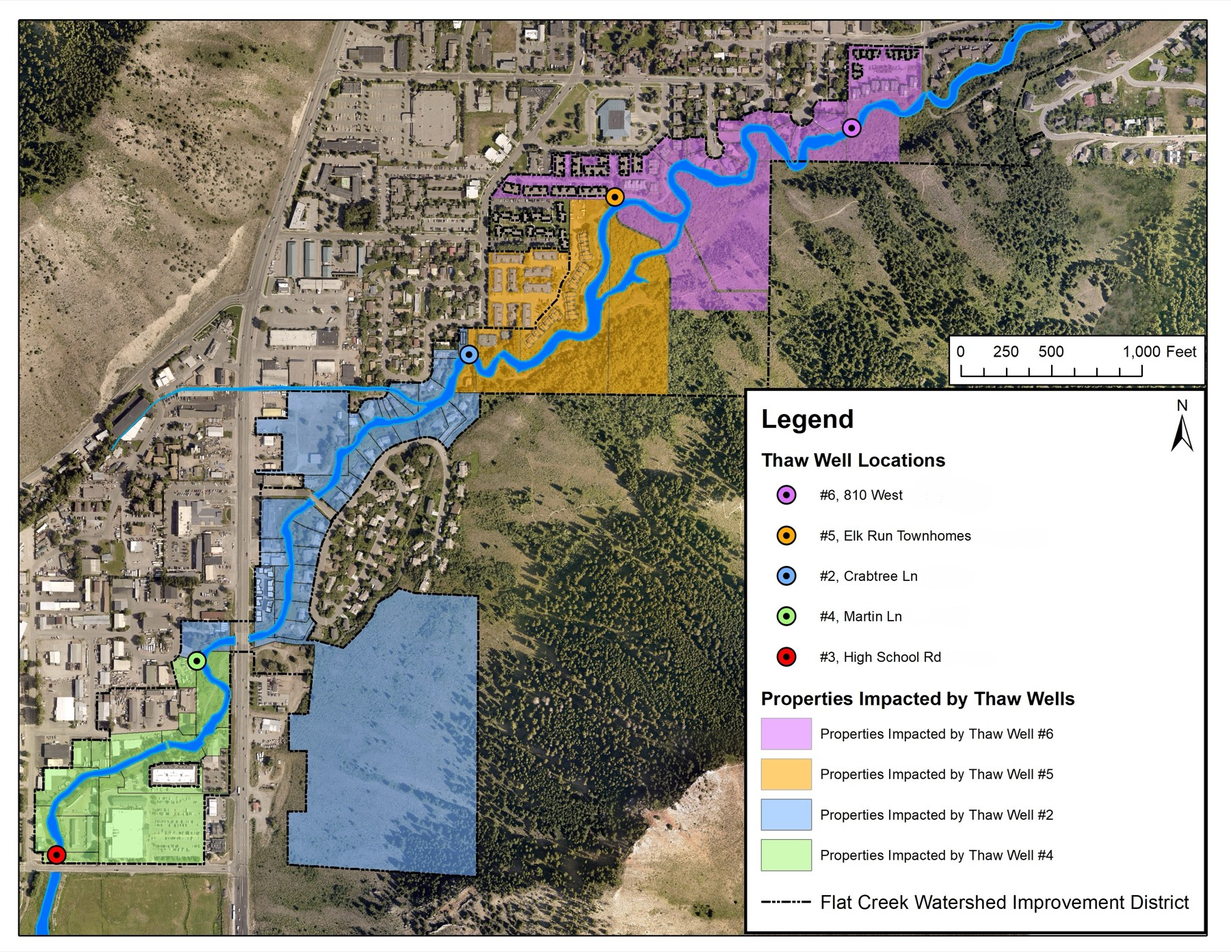
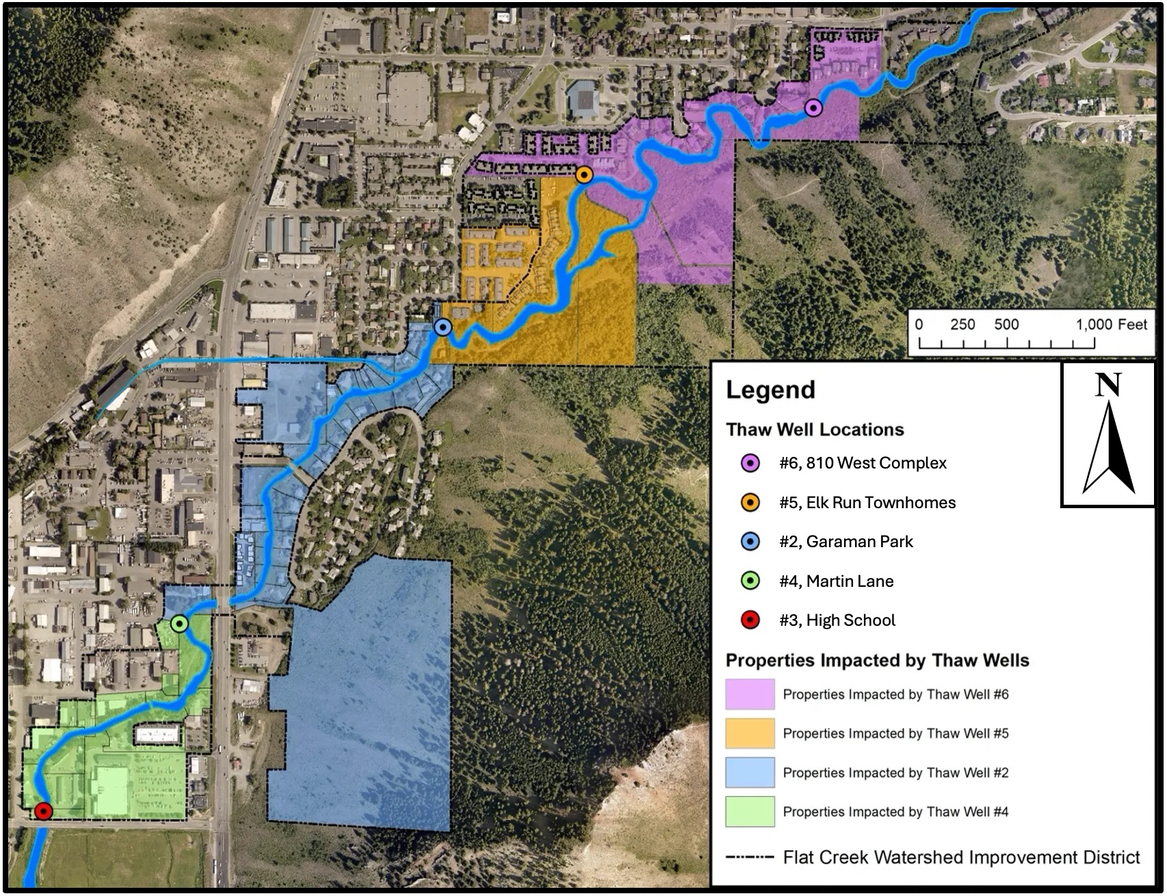
Update district map with thaw well locations and impacted properties

diff --git a/projects.html b/projects.html
@@ -15,7 +15,7 @@
 <script src="https://cdn.jsdelivr.net/npm/react-dom@18/umd/react-dom.production.min.js"></script>
 <script src="https://cdn.jsdelivr.net/npm/@babel/standalone/babel.min.js"></script>
 <script>
-const __src = "\nasync function dsLoad(name, path, deps) {\n  deps = deps || {};\n  const res = await fetch(path);\n  let src = await res.text();\n  src = src.replace(/^import[^\\n]*\\n/gm, '');\n  src = src.replace('export function', 'function');\n  const compiled = Babel.transform(src, { presets: [['react', { runtime: 'classic' }]] }).code;\n  const argNames = Object.keys(deps);\n  const argVals = Object.values(deps);\n  const fn = new Function('React', 'useState', 'useRef', 'useEffect', ...argNames, compiled + '\\nreturn ' + name + ';');\n  window.DS = window.DS || {};\n  window.DS[name] = fn(React, React.useState, React.useRef, React.useEffect, ...argVals);\n}\n\nasync function boot() {\n  await dsLoad('OfficialBanner', 'components/navigation/OfficialBanner.jsx');\n  await dsLoad('Button', 'components/core/Button.jsx');\n  await dsLoad('Header', 'components/navigation/Header.jsx', { Button: window.DS.Button });\n  await dsLoad('Footer', 'components/navigation/Footer.jsx');\n  await dsLoad('Card', 'components/core/Card.jsx');\n  await dsLoad('FlowLine', 'components/core/FlowLine.jsx');\n  const { OfficialBanner, Header, Footer, Card, FlowLine } = window.DS;\n\n  const PROJECT_PAGES = [\n    { label: 'Thaw wells', href: 'projects/thaw-wells.html', blurb: 'A network of six wells that pump warm groundwater into Flat Creek to prevent ice-jam flooding.' },\n    { label: 'Bank restoration', href: 'projects/bank-restoration.html', blurb: 'Recent stabilization and restoration work along the creek corridor.' },\n    { label: 'Scott Lane', href: 'projects/scott-lane.html', blurb: 'Scope, location, and status of the Scott Lane project.' },\n    { label: 'Ongoing projects', href: 'projects/ongoing-projects.html', blurb: 'Work currently in progress or planned, with rough timelines.' },\n  ];\n\n  function Page() {\n    const h3 = { fontFamily: 'var(--font-display)', fontSize: 'var(--text-xl)', marginTop: 'var(--space-7)', marginBottom: 'var(--space-3)' };\n    const p = { fontFamily: 'var(--font-body)', fontSize: 'var(--text-base)', lineHeight: 'var(--leading-relaxed)', color: 'var(--color-text)', marginBottom: 'var(--space-4)' };\n    const ul = { fontFamily: 'var(--font-body)', fontSize: 'var(--text-base)', lineHeight: 'var(--leading-relaxed)', color: 'var(--color-text)', margin: '0 0 var(--space-4)', paddingLeft: 'var(--space-6)', display: 'flex', flexDirection: 'column', gap: 'var(--space-2)' };\n    return (\n      <div>\n        <OfficialBanner />\n        <Header />\n        <section style={{ position: 'relative', width: '100%', height: '42vh', minHeight: '320px', overflow: 'hidden' }}>\n          <img src=\"assets/photography/flat-creek-ice-removal.jpg\" alt=\"Heavy equipment clearing ice from Flat Creek\" style={{ position: 'absolute', inset: 0, width: '100%', height: '100%', objectFit: 'cover' }} />\n          <div style={{ position: 'absolute', inset: 0, background: 'linear-gradient(0deg, oklch(15% 0.02 235 / 0.75) 0%, oklch(16% 0.02 235 / 0.15) 55%, transparent 80%)' }} />\n        </section>\n        <section style={{ maxWidth: '760px', margin: '0 auto', padding: 'var(--space-12) var(--space-6) var(--space-6)', textAlign: 'center' }}>\n          <div style={{ fontFamily: 'var(--font-body)', fontSize: 'var(--text-sm)', fontWeight: 600, color: 'var(--color-primary)', textTransform: 'uppercase', letterSpacing: '0.06em', marginBottom: 'var(--space-3)' }}>FCWID Projects</div>\n          <h1 style={{ fontSize: 'var(--text-4xl)', marginBottom: 'var(--space-4)' }}>Explore our projects</h1>\n          <p style={{ fontFamily: 'var(--font-body)', fontSize: 'var(--text-lg)', color: 'var(--color-text-muted)', lineHeight: 'var(--leading-normal)' }}>\n            For decades, Flat Creek's tendency to freeze from the bottom up and jam with ice has flooded the private property and public infrastructure along its banks through the town of Jackson. FCWID exists to prevent that, through a network of thaw wells that keep the creek open in winter, bank restoration work that keeps the channel healthy and stable, and ongoing capital projects funded and overseen by the district.\n          </p>\n        </section>\n\n        <section style={{ maxWidth: 'var(--container-max)', margin: '0 auto', padding: 'var(--space-10) var(--space-6) var(--space-4)' }}>\n          <style>{'.fc-proj-card{transition:transform 180ms ease,box-shadow 180ms ease,border-color 180ms ease;display:flex;flex-direction:column;height:100%}.fc-proj-card:hover{transform:translateY(-4px);box-shadow:var(--shadow-md);border-color:var(--color-primary)}.fc-proj-card:hover .fc-proj-arrow{transform:translateX(4px)}.fc-proj-arrow{display:inline-block;transition:transform 180ms ease}'}</style>\n          <div style={{ display: 'grid', gridTemplateColumns: 'repeat(auto-fit, minmax(220px, 1fr))', gap: 'var(--space-5)', alignItems: 'stretch' }}>\n            {PROJECT_PAGES.map(proj => (\n              <a key={proj.href} href={proj.href} className=\"fc-proj-card\" style={{ padding: 'var(--space-6)', border: '1px solid var(--color-border)', borderRadius: 'var(--radius-md)', textDecoration: 'none', background: 'var(--color-surface-raised)', boxShadow: 'var(--shadow-sm)', color: 'var(--color-text)' }}>\n                <div style={{ fontFamily: 'var(--font-display)', fontWeight: 600, fontSize: 'var(--text-xl)', color: 'var(--color-text)', marginBottom: 'var(--space-2)' }}>{proj.label}</div>\n                <div style={{ fontFamily: 'var(--font-body)', fontSize: 'var(--text-sm)', color: 'var(--color-text-muted)', lineHeight: 'var(--leading-normal)', flex: 1 }}>{proj.blurb}</div>\n                <div style={{ marginTop: 'var(--space-5)', color: 'var(--color-primary)', fontWeight: 600, fontSize: 'var(--text-sm)' }}><span className=\"fc-proj-arrow\">{'\u2192'}</span></div>\n              </a>\n            ))}\n          </div>\n        </section>\n\n        <section style={{ maxWidth: 'var(--container-max)', margin: '0 auto', padding: 'var(--space-4) var(--space-6) var(--space-16)' }}>\n          <div className=\"fc-two-col\" style={{ display: 'grid', gridTemplateColumns: 'minmax(0, 1.1fr) minmax(0, 1fr)', gap: 'var(--space-8)', alignItems: 'center', background: 'var(--color-surface-raised)', border: '1px solid var(--color-border)', borderRadius: 'var(--radius-md)', padding: 'var(--space-8)' }}>\n            <div>\n              <h2 style={{ fontSize: 'var(--text-2xl)', marginBottom: 'var(--space-3)' }}>Mapped across the district</h2>\n              <p style={{ fontFamily: 'var(--font-body)', fontSize: 'var(--text-base)', color: 'var(--color-text-muted)', lineHeight: 'var(--leading-relaxed)' }}>\n                All of the district's work sits along the reach of Flat Creek within FCWID's boundaries \u2014 from thaw well outfalls to bank restoration sites. Explore the projects above to see where each piece fits.\n              </p>\n            </div>\n            <img src=\"assets/maps/thaw-well-locations.jpg\" alt=\"Map of FCWID project locations along Flat Creek\" style={{ width: '100%', borderRadius: 'var(--radius-md)', border: '1px solid var(--color-border)' }} />\n          </div>\n        </section>\n<div style={{ maxWidth: 'var(--container-max)', margin: '0 auto', padding: '0 var(--space-6) var(--space-10)' }}><FlowLine static /></div>\n        <Footer />\n      </div>\n    );\n  }\n  ReactDOM.createRoot(document.getElementById('root')).render(<Page />);\n}\nboot();\n\n";
+const __src = "\nasync function dsLoad(name, path, deps) {\n  deps = deps || {};\n  const res = await fetch(path);\n  let src = await res.text();\n  src = src.replace(/^import[^\\n]*\\n/gm, '');\n  src = src.replace('export function', 'function');\n  const compiled = Babel.transform(src, { presets: [['react', { runtime: 'classic' }]] }).code;\n  const argNames = Object.keys(deps);\n  const argVals = Object.values(deps);\n  const fn = new Function('React', 'useState', 'useRef', 'useEffect', ...argNames, compiled + '\\nreturn ' + name + ';');\n  window.DS = window.DS || {};\n  window.DS[name] = fn(React, React.useState, React.useRef, React.useEffect, ...argVals);\n}\n\nasync function boot() {\n  await dsLoad('OfficialBanner', 'components/navigation/OfficialBanner.jsx');\n  await dsLoad('Button', 'components/core/Button.jsx');\n  await dsLoad('Header', 'components/navigation/Header.jsx', { Button: window.DS.Button });\n  await dsLoad('Footer', 'components/navigation/Footer.jsx');\n  await dsLoad('Card', 'components/core/Card.jsx');\n  await dsLoad('FlowLine', 'components/core/FlowLine.jsx');\n  const { OfficialBanner, Header, Footer, Card, FlowLine } = window.DS;\n\n  const PROJECT_PAGES = [\n    { label: 'Thaw wells', href: 'projects/thaw-wells.html', blurb: 'A network of six wells that pump warm groundwater into Flat Creek to prevent ice-jam flooding.' },\n    { label: 'Bank restoration', href: 'projects/bank-restoration.html', blurb: 'Recent stabilization and restoration work along the creek corridor.' },\n    { label: 'Scott Lane', href: 'projects/scott-lane.html', blurb: 'Scope, location, and status of the Scott Lane project.' },\n    { label: 'Ongoing projects', href: 'projects/ongoing-projects.html', blurb: 'Work currently in progress or planned, with rough timelines.' },\n  ];\n\n  function Page() {\n    const h3 = { fontFamily: 'var(--font-display)', fontSize: 'var(--text-xl)', marginTop: 'var(--space-7)', marginBottom: 'var(--space-3)' };\n    const p = { fontFamily: 'var(--font-body)', fontSize: 'var(--text-base)', lineHeight: 'var(--leading-relaxed)', color: 'var(--color-text)', marginBottom: 'var(--space-4)' };\n    const ul = { fontFamily: 'var(--font-body)', fontSize: 'var(--text-base)', lineHeight: 'var(--leading-relaxed)', color: 'var(--color-text)', margin: '0 0 var(--space-4)', paddingLeft: 'var(--space-6)', display: 'flex', flexDirection: 'column', gap: 'var(--space-2)' };\n    return (\n      <div>\n        <OfficialBanner />\n        <Header />\n        <section style={{ position: 'relative', width: '100%', height: '42vh', minHeight: '320px', overflow: 'hidden' }}>\n          <img src=\"assets/photography/flat-creek-ice-removal.jpg\" alt=\"Heavy equipment clearing ice from Flat Creek\" style={{ position: 'absolute', inset: 0, width: '100%', height: '100%', objectFit: 'cover' }} />\n          <div style={{ position: 'absolute', inset: 0, background: 'linear-gradient(0deg, oklch(15% 0.02 235 / 0.75) 0%, oklch(16% 0.02 235 / 0.15) 55%, transparent 80%)' }} />\n        </section>\n        <section style={{ maxWidth: '760px', margin: '0 auto', padding: 'var(--space-12) var(--space-6) var(--space-6)', textAlign: 'center' }}>\n          <div style={{ fontFamily: 'var(--font-body)', fontSize: 'var(--text-sm)', fontWeight: 600, color: 'var(--color-primary)', textTransform: 'uppercase', letterSpacing: '0.06em', marginBottom: 'var(--space-3)' }}>FCWID Projects</div>\n          <h1 style={{ fontSize: 'var(--text-4xl)', marginBottom: 'var(--space-4)' }}>Explore our projects</h1>\n          <p style={{ fontFamily: 'var(--font-body)', fontSize: 'var(--text-lg)', color: 'var(--color-text-muted)', lineHeight: 'var(--leading-normal)' }}>\n            For decades, Flat Creek's tendency to freeze from the bottom up and jam with ice has flooded the private property and public infrastructure along its banks through the town of Jackson. FCWID exists to prevent that, through a network of thaw wells that keep the creek open in winter, bank restoration work that keeps the channel healthy and stable, and ongoing capital projects funded and overseen by the district.\n          </p>\n        </section>\n\n        <section style={{ maxWidth: 'var(--container-max)', margin: '0 auto', padding: 'var(--space-10) var(--space-6) var(--space-4)' }}>\n          <style>{'.fc-proj-card{transition:transform 180ms ease,box-shadow 180ms ease,border-color 180ms ease;display:flex;flex-direction:column;height:100%}.fc-proj-card:hover{transform:translateY(-4px);box-shadow:var(--shadow-md);border-color:var(--color-primary)}.fc-proj-card:hover .fc-proj-arrow{transform:translateX(4px)}.fc-proj-arrow{display:inline-block;transition:transform 180ms ease}'}</style>\n          <div style={{ display: 'grid', gridTemplateColumns: 'repeat(auto-fit, minmax(220px, 1fr))', gap: 'var(--space-5)', alignItems: 'stretch' }}>\n            {PROJECT_PAGES.map(proj => (\n              <a key={proj.href} href={proj.href} className=\"fc-proj-card\" style={{ padding: 'var(--space-6)', border: '1px solid var(--color-border)', borderRadius: 'var(--radius-md)', textDecoration: 'none', background: 'var(--color-surface-raised)', boxShadow: 'var(--shadow-sm)', color: 'var(--color-text)' }}>\n                <div style={{ fontFamily: 'var(--font-display)', fontWeight: 600, fontSize: 'var(--text-xl)', color: 'var(--color-text)', marginBottom: 'var(--space-2)' }}>{proj.label}</div>\n                <div style={{ fontFamily: 'var(--font-body)', fontSize: 'var(--text-sm)', color: 'var(--color-text-muted)', lineHeight: 'var(--leading-normal)', flex: 1 }}>{proj.blurb}</div>\n                <div style={{ marginTop: 'var(--space-5)', color: 'var(--color-primary)', fontWeight: 600, fontSize: 'var(--text-sm)' }}><span className=\"fc-proj-arrow\">{'\u2192'}</span></div>\n              </a>\n            ))}\n          </div>\n        </section>\n\n        <section style={{ maxWidth: 'var(--container-max)', margin: '0 auto', padding: 'var(--space-4) var(--space-6) var(--space-16)' }}>\n          <div className=\"fc-two-col\" style={{ display: 'grid', gridTemplateColumns: 'minmax(0, 1.1fr) minmax(0, 1fr)', gap: 'var(--space-8)', alignItems: 'center', background: 'var(--color-surface-raised)', border: '1px solid var(--color-border)', borderRadius: 'var(--radius-md)', padding: 'var(--space-8)' }}>\n            <div>\n              <h2 style={{ fontSize: 'var(--text-2xl)', marginBottom: 'var(--space-3)' }}>Mapped across the district</h2>\n              <p style={{ fontFamily: 'var(--font-body)', fontSize: 'var(--text-base)', color: 'var(--color-text-muted)', lineHeight: 'var(--leading-relaxed)' }}>\n                All of the district's work sits along the reach of Flat Creek within FCWID's boundaries \u2014 from thaw well outfalls to bank restoration sites. Explore the projects above to see where each piece fits.\n              </p>\n            </div>\n            <img src=\"assets/maps/thaw-well-locations.jpg\" alt=\"Map of FCWID thaw well locations and the properties each well impacts along Flat Creek\" style={{ width: '100%', borderRadius: 'var(--radius-md)', border: '1px solid var(--color-border)' }} />\n          </div>\n        </section>\n<div style={{ maxWidth: 'var(--container-max)', margin: '0 auto', padding: '0 var(--space-6) var(--space-10)' }}><FlowLine static /></div>\n        <Footer />\n      </div>\n    );\n  }\n  ReactDOM.createRoot(document.getElementById('root')).render(<Page />);\n}\nboot();\n\n";
 const __compiled = Babel.transform(__src, { presets: [['react', { runtime: 'classic' }]] }).code;
 new Function('React','ReactDOM', __compiled)(React, ReactDOM);
 </script>
